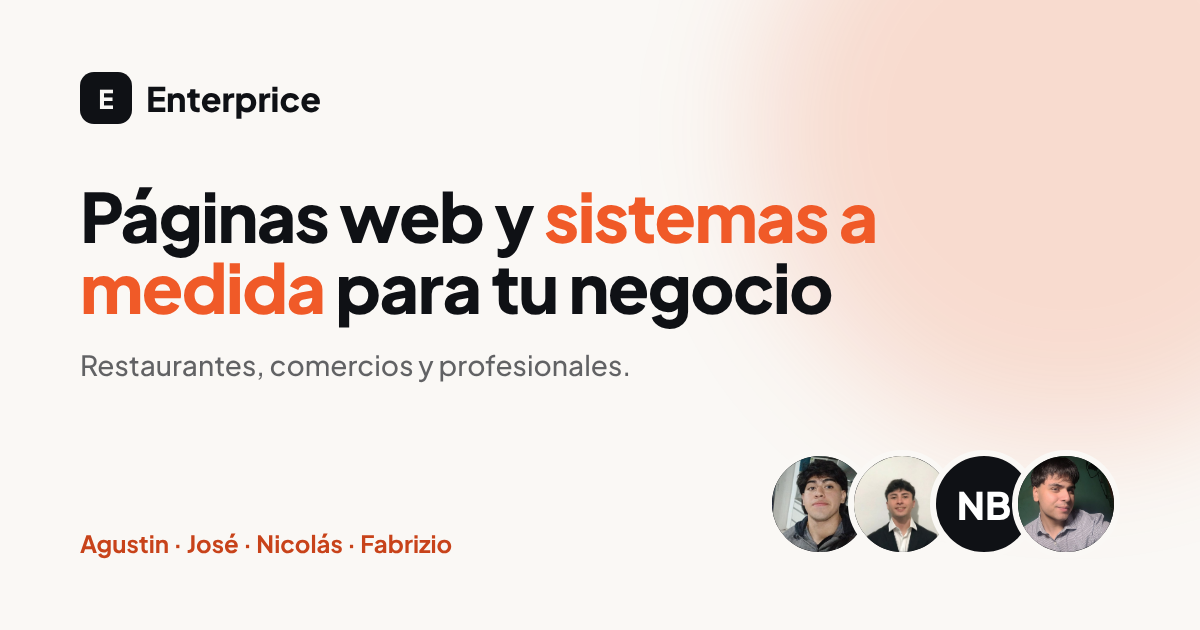
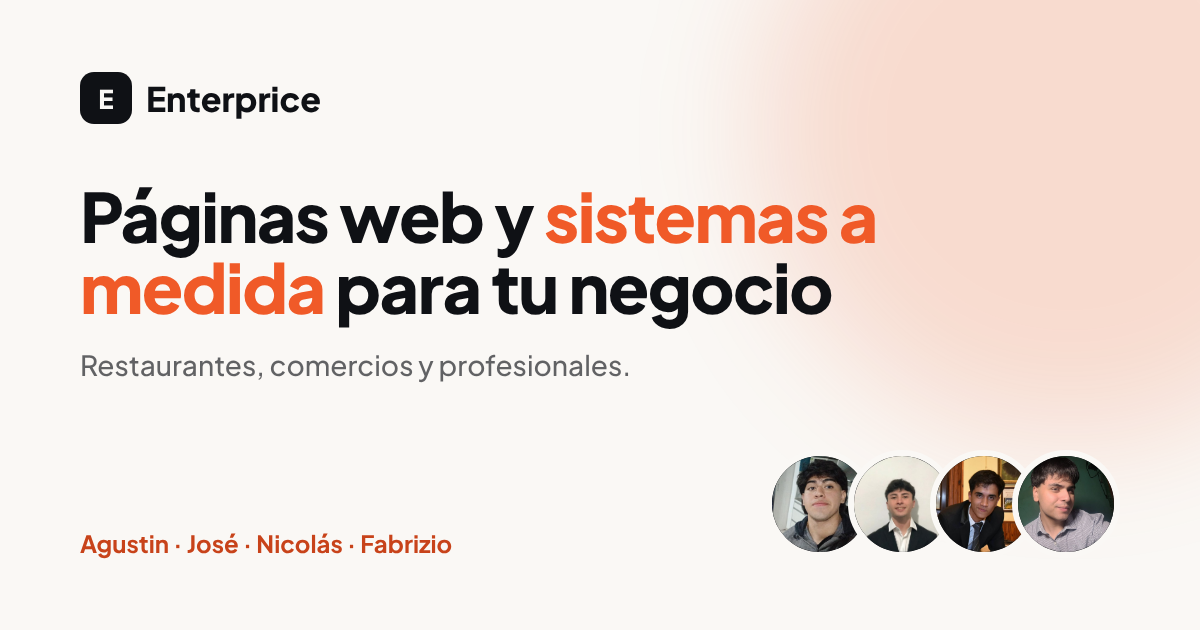
Agregar la foto de Nicolás
Claude-Session: https://claude.ai/code/session_01L5doLW5uem8yjftQDTh3Xt

Changed region(s): [[0.7708, 0.7238, 0.8633, 0.8746]]

diff --git a/src/content/site.ts b/src/content/site.ts
@@ -457,7 +457,7 @@ export const team: Member[] = [
     name: "Nicolás",
     fullName: "Nicolás Raúl Bazán",
     role: "Programador: frontend y backend",
-    photo: undefined, // TODO: foto
+    photo: "/equipo/nicolas-bazan.jpg",
     href: "https://www.linkedin.com/in/nicolas-baz%C3%A1n-9315653b3/",
     network: "LinkedIn",
     bio: "Trabajo tanto en el frontend como en el backend, de la pantalla que ve el cliente hasta el servidor. Hoy estamos desarrollando juntos un chatbot con inteligencia artificial.",
